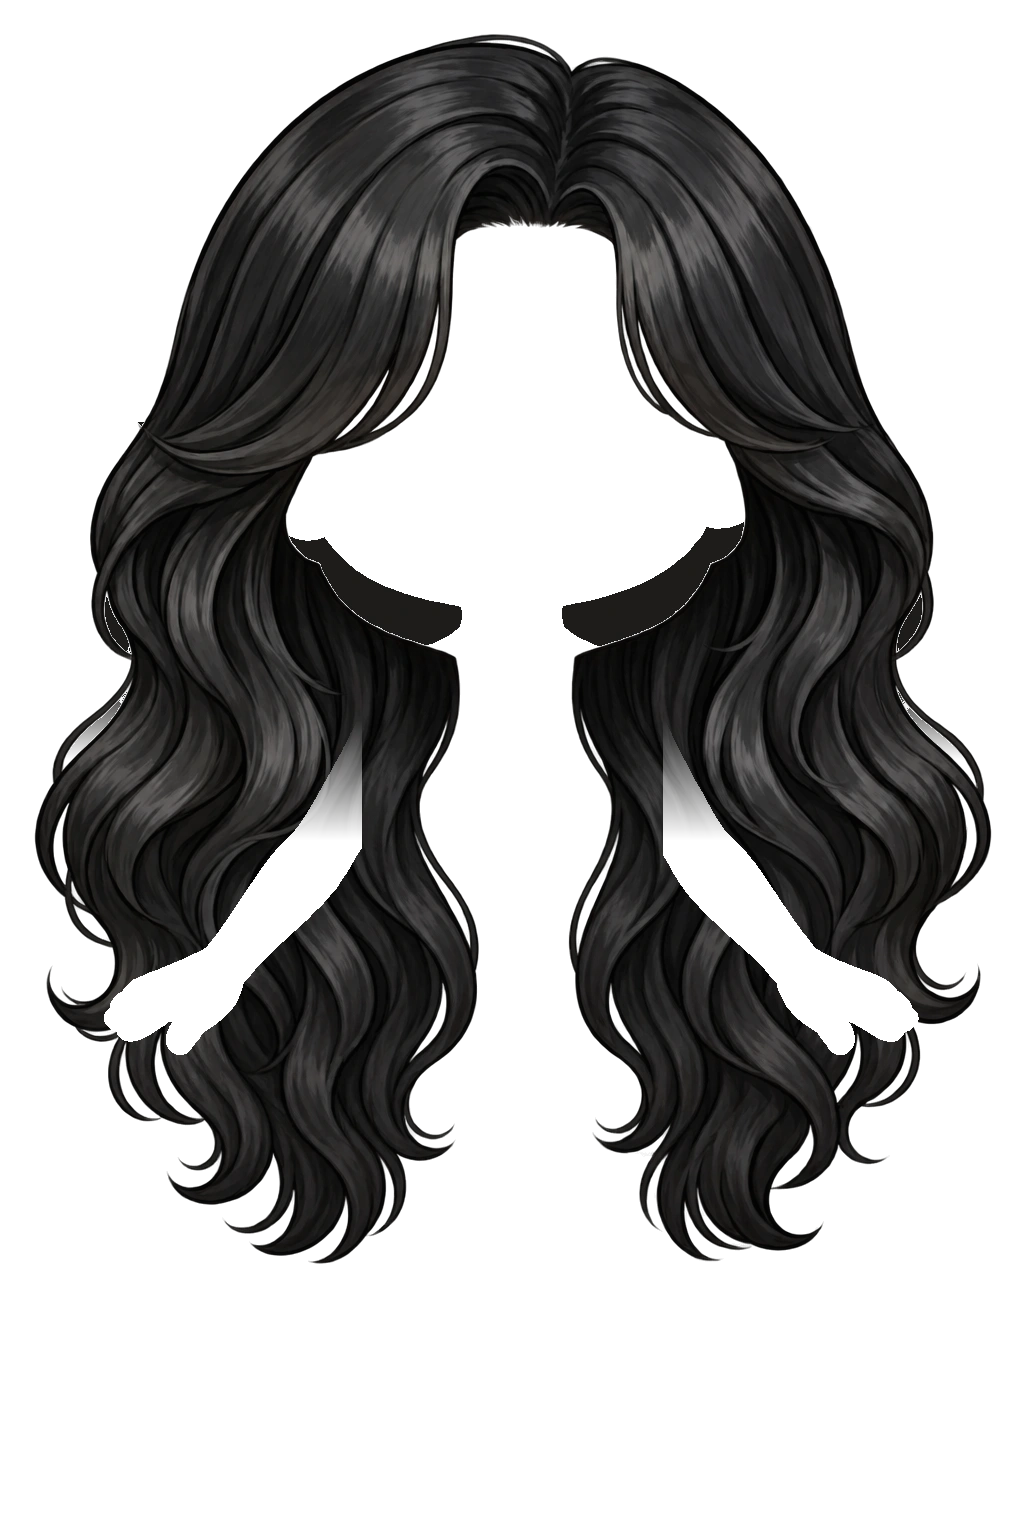
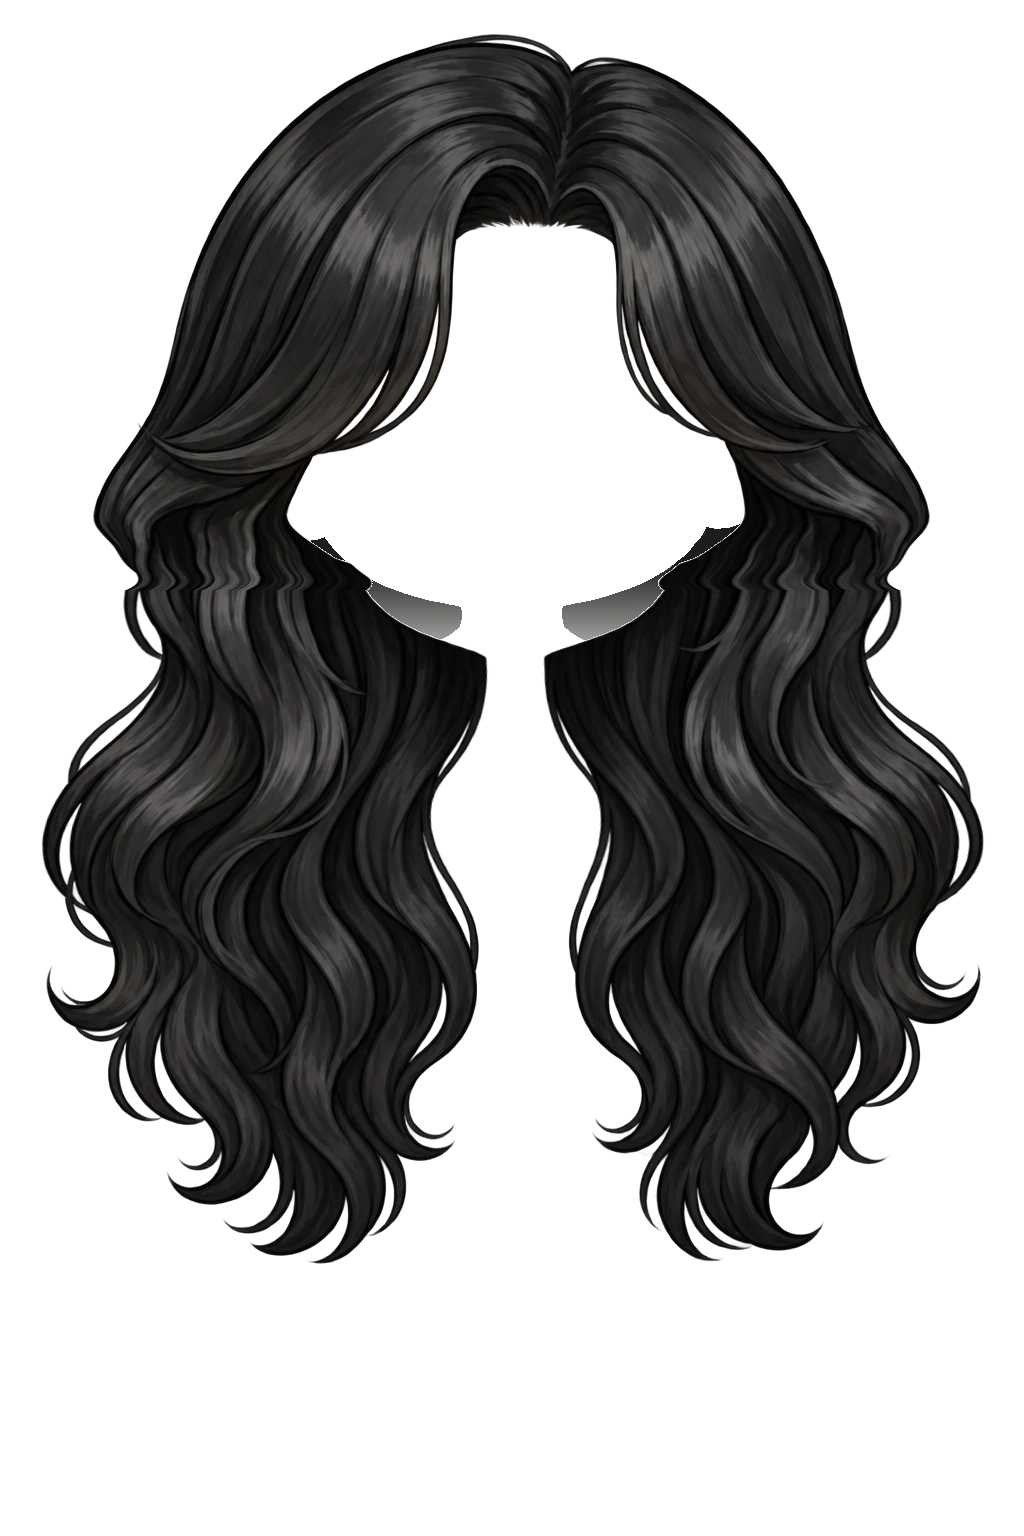
류소 긴 머리 넷: 턱 선에 맞춰 머리를 몸 뒤에 그림(머리 없는 몸 위, 몸의 머리 쪽은 얼굴·귀만), 땋은 왕관 웨이브·긴 웨이브 추가
Claude-Session: https://claude.ai/code/session_01QsJz8svXLJhiXtuEPA1E7w

Changed region(s): [[0.0312, 0.3438, 0.5, 0.6875], [0.5312, 0.3438, 0.9688, 0.6875]]

diff --git a/src/lib/avatars.ts b/src/lib/avatars.ts
@@ -1,4 +1,4 @@
-import { HAIR_BEHIND_Z, HAIR_FRONT_Z } from './layers'
+import { BODY_OVER_HAIR_Z, HAIR_BEHIND_Z, HAIR_FRONT_Z } from './layers'
 import { isRestoring } from './restoreGuard'
 
 export interface Hairstyle {
@@ -8,7 +8,7 @@ export interface Hairstyle {
   file: string
   /** 이 머리일 때 쓰는 몸 파일 이름(dir 안, 확장자·_barefoot 뺀 것). 없으면 body. 기본 머리가 몸에 그려져 있는 아바타가 다른 머리를 쓸 때 */
   body?: string
-  /** true 면 머리를 옷 뒤(몸 바로 위)에 그린다. 옷 위로 내려오는 긴 머리용 */
+  /** true 면 머리를 몸 뒤(몸보다 아래)에 그린다. 몸의 머리 쪽은 이 머리에 맞춰 얼굴·귀만 남긴 body 파일을 쓴다 */
   behind?: boolean
 }
 
@@ -27,10 +27,10 @@ export const AVATARS: Avatar[] = [
     id: 'ryuso', name: { ko: '류소', en: 'Ryuso' }, dir: 'assets/base',
     hairstyles: [
       { id: 'bob', name: { ko: '단발', en: 'Bob' }, file: 'hair_front.webp' },
-      { id: 'wig', name: { ko: '레이어드 긴 머리', en: 'Layered long hair' }, file: 'hair_wig.webp', body: 'body_bald', behind: true },
-      { id: 'tails', name: { ko: '웨이브 양갈래', en: 'Wavy pigtails' }, file: 'hair_tails.webp', body: 'body_bald', behind: true },
-      { id: 'braidwave', name: { ko: '땋은 왕관 웨이브', en: 'Crown braid waves' }, file: 'hair_braid.webp', body: 'body_bald', behind: true },
-      { id: 'longwave', name: { ko: '긴 웨이브', en: 'Long waves' }, file: 'hair_wave.webp', body: 'body_bald', behind: true },
+      { id: 'wig', name: { ko: '레이어드 긴 머리', en: 'Layered long hair' }, file: 'hair_wig.webp', body: 'body_wig', behind: true },
+      { id: 'tails', name: { ko: '웨이브 양갈래', en: 'Wavy pigtails' }, file: 'hair_tails.webp', body: 'body_tails', behind: true },
+      { id: 'braidwave', name: { ko: '땋은 왕관 웨이브', en: 'Crown braid waves' }, file: 'hair_braid.webp', body: 'body_braid', behind: true },
+      { id: 'longwave', name: { ko: '긴 웨이브', en: 'Long waves' }, file: 'hair_wave.webp', body: 'body_wave', behind: true },
     ],
   },
   {
@@ -114,8 +114,10 @@ export function setHairstyle(a: Avatar, styleId: string) {
   listeners.forEach((fn) => fn())
 }
 
-/** 지금 머리가 그려지는 높이: 옷 뒤로 가는 머리면 몸 바로 위, 아니면 앞머리 높이 */
+/** 지금 머리가 그려지는 높이: 몸 뒤로 가는 머리면 몸 아래, 아니면 앞머리 높이 */
 export const hairZ = (a: Avatar = getAvatar()) => (getHairstyle(a).behind ? HAIR_BEHIND_Z : HAIR_FRONT_Z)
+/** 몸이 그려지는 높이: 머리가 몸 뒤로 가면 머리 위(2), 아니면 맨 아래(0) */
+export const bodyZ = (a: Avatar = getAvatar()) => (getHairstyle(a).behind ? BODY_OVER_HAIR_Z : 0)
 
 /** 아바타의 베이스 레이어 파일 경로(assetUrl 을 거치기 전). 머리는 지금 고른 머리 */
 export const baseFiles = (a: Avatar, style: Hairstyle = getHairstyle(a)) => ({

diff --git a/src/lib/avatars.test.ts b/src/lib/avatars.test.ts
@@ -1,6 +1,6 @@
 import { beforeEach, describe, expect, it } from 'vitest'
-import { AVATARS, baseFiles, getAvatar, getHairstyle, hairZ, setAvatar, setHairstyle } from './avatars'
-import { HAIR_BEHIND_Z, HAIR_FRONT_Z, LAYER_Z } from './layers'
+import { AVATARS, baseFiles, bodyZ, getAvatar, getHairstyle, hairZ, setAvatar, setHairstyle } from './avatars'
+import { BODY_OVER_HAIR_Z, HAIR_BEHIND_Z, HAIR_FRONT_Z, LAYER_Z } from './layers'
 
 describe('avatars', () => {
   beforeEach(() => setAvatar(AVATARS[0].id))
@@ -28,15 +28,15 @@ describe('avatars', () => {
     expect(yuha.hairstyles[0].id).toBe('twin')
     expect(baseFiles(yuha, yuha.hairstyles[0]).hairFront).toBe('assets/base/yuha/hair_twin.webp')
   })
-  it('류소의 긴 머리 둘은 옷 뒤(몸 바로 위)에 그리고, 단발은 앞머리 높이', () => {
+  it('류소의 긴 머리 넷은 몸 뒤(몸·옷보다 아래)에 그리고, 단발은 앞머리 높이', () => {
     const ryuso = AVATARS.find((a) => a.id === 'ryuso')!
-    expect(hairZ(ryuso)).toBe(HAIR_FRONT_Z)
+    expect(hairZ(ryuso)).toBe(HAIR_FRONT_Z); expect(bodyZ(ryuso)).toBe(0)
     for (const id of ['wig', 'tails', 'braidwave', 'longwave']) {
       setHairstyle(ryuso, id)
-      expect(hairZ(ryuso)).toBe(HAIR_BEHIND_Z)
-      expect(HAIR_BEHIND_Z).toBeLessThan(Math.min(...Object.values(LAYER_Z)))
-      expect(baseFiles(ryuso).body).toBe('assets/base/body_bald.webp')
-      expect(baseFiles(ryuso).bodyBarefoot).toBe('assets/base/body_bald_barefoot.webp')
+      expect(hairZ(ryuso)).toBe(HAIR_BEHIND_Z); expect(bodyZ(ryuso)).toBe(BODY_OVER_HAIR_Z)
+      expect(HAIR_BEHIND_Z).toBeLessThan(BODY_OVER_HAIR_Z)
+      expect(BODY_OVER_HAIR_Z).toBeLessThan(Math.min(...Object.values(LAYER_Z)))
+      expect(baseFiles(ryuso).body).toMatch(/^assets\/base\/body_(wig|tails|braid|wave)\.webp$/)
     }
     setHairstyle(ryuso, 'bob')
   })

diff --git a/src/components/AvatarHead.tsx b/src/components/AvatarHead.tsx
@@ -1,5 +1,5 @@
 import type { Avatar, Hairstyle } from '../lib/avatars'
-import { baseFiles } from '../lib/avatars'
+import { baseFiles, getHairstyle } from '../lib/avatars'
 import { assetUrl } from '../lib/items'
 
 /** 아바타 얼굴 쪽 정사각형 미리보기 (몸 + 머리 레이어를 겹쳐서 잘라 보여준다) */
@@ -9,8 +9,13 @@ export function AvatarHead({ avatar, style, className = 'h-24 w-24' }: { avatar:
   const box = { width: `${(1024 / 760) * 100}%`, left: `${(-132 / 760) * 100}%`, top: `${(-20 / 760) * 100}%` }
   return (
     <span className={`relative block overflow-hidden rounded-xl bg-white/70 ${className}`} aria-hidden>
-      <img src={assetUrl(f.body)} alt="" className={layer} style={box} draggable={false} />
-      <img src={assetUrl(f.hairFront)} alt="" className={layer} style={box} draggable={false} />
+      {(style ?? getHairstyle(avatar)).behind ? (<>
+        <img src={assetUrl(f.hairFront)} alt="" className={layer} style={box} draggable={false} />
+        <img src={assetUrl(f.body)} alt="" className={layer} style={box} draggable={false} />
+      </>) : (<>
+        <img src={assetUrl(f.body)} alt="" className={layer} style={box} draggable={false} />
+        <img src={assetUrl(f.hairFront)} alt="" className={layer} style={box} draggable={false} />
+      </>)}
     </span>
   )
 }

diff --git a/src/lib/exportPng.ts b/src/lib/exportPng.ts
@@ -1,6 +1,6 @@
 import { drawBackground, type Background } from './backgrounds'
 import { BASE_LAYERS, ITEM_BY_ID, assetUrl } from './items'
-import { hairZ } from './avatars'
+import { bodyZ, hairZ } from './avatars'
 import { CANVAS_H, CANVAS_W } from './layers'
 import { wornItems } from './outfit'
 import { effectiveZ, getTweak, pivotOf } from './tweaks'
@@ -42,9 +42,12 @@ export async function renderFigure(outfit: Outfit, tweaks: Tweaks = {}): Promise
   ])
   const canvas = makeCanvas(CANVAS_W, CANVAS_H)
   const ctx = canvas.getContext('2d')!
+  // 머리가 몸 뒤(hairZ < bodyZ)면 머리를 먼저 그리고 그 위에 몸, 아니면 몸 → 옷 → 앞머리 순서
+  const hairFirst = hairZ() < bodyZ()
+  if (hairFirst) ctx.drawImage(hair, 0, 0, CANVAS_W, CANVAS_H)
   ctx.drawImage(body, 0, 0, CANVAS_W, CANVAS_H)
   // 앞머리(60)는 아우터(50) 위, 액세서리(70) 아래
-  let hairDrawn = false
+  let hairDrawn = hairFirst
   items.forEach((it, idx) => {
     if (!hairDrawn && effectiveZ(it.zIndex, tweaks[it.category]) > hairZ()) {
       ctx.drawImage(hair, 0, 0, CANVAS_W, CANVAS_H)

diff --git a/src/components/Stage.tsx b/src/components/Stage.tsx
@@ -3,7 +3,7 @@ import { useI18n } from '../i18n'
 import type { Background } from '../lib/backgrounds'
 import { useAvatar } from '../lib/useAvatar'
 import { BASE_LAYERS, ITEM_BY_ID, assetUrl } from '../lib/items'
-import { hairZ } from '../lib/avatars'
+import { bodyZ, hairZ } from '../lib/avatars'
 import { type Category } from '../lib/layers'
 import { wornItems } from '../lib/outfit'
 import { effectiveZ } from '../lib/tweaks'
@@ -44,7 +44,7 @@ export function Stage({ outfit, ...rest }: Props) {
     label: it.name[lang],
   }))
   const base: BaseLayer[] = [
-    { src: outfit.shoes ? BASE_LAYERS.bodyBarefoot : BASE_LAYERS.body, z: 0 },
+    { src: outfit.shoes ? BASE_LAYERS.bodyBarefoot : BASE_LAYERS.body, z: bodyZ() },
     { src: BASE_LAYERS.hairFront, z: hairZ() },
   ]
   return <LayerStage base={base} layers={layers} ariaLabel={t('tweakAria')} {...rest} />

diff --git a/src/components/FigureLayers.tsx b/src/components/FigureLayers.tsx
@@ -1,6 +1,6 @@
 import { memo } from 'react'
 import { BASE_LAYERS, ITEM_BY_ID, assetUrl } from '../lib/items'
-import { hairZ } from '../lib/avatars'
+import { bodyZ, hairZ } from '../lib/avatars'
 import { wornItems } from '../lib/outfit'
 import { cssTransform, effectiveZ } from '../lib/tweaks'
 import type { Outfit, Tweaks } from '../lib/types'
@@ -26,7 +26,7 @@ export const FigureLayers = memo(function FigureLayers({
   const body = outfit.shoes ? BASE_LAYERS.bodyBarefoot : BASE_LAYERS.body
   return (
     <>
-      <img src={body} alt="" className="layer" style={{ zIndex: 0 }} draggable={false} />
+      <img src={body} alt="" className="layer" style={{ zIndex: bodyZ() }} draggable={false} />
       {items.map((it) => {
         const t = tweaks[it.category]
         return (

diff --git a/src/lib/layers.ts b/src/lib/layers.ts
@@ -19,8 +19,9 @@ export const LAYER_Z: Record<Category, number> = {
 
 /** 앞머리 레이어(옷 위, 액세서리 아래) */
 export const HAIR_FRONT_Z = 60
-/** 옷 뒤로 가는 머리(몸 바로 위, 신발·옷 아래): 긴 머리가 옷을 가리지 않게 */
-export const HAIR_BEHIND_Z = 5
+/** 몸 뒤로 가는 머리(몸·옷보다 아래): 긴 머리가 옷·손을 가리지 않게. 이때 몸은 머리 위(BODY_OVER_HAIR_Z)에 그린다 */
+export const HAIR_BEHIND_Z = 1
+export const BODY_OVER_HAIR_Z = 2
 
 /** 아바타·옷 PNG 공통 캔버스 크기 (옷은 이 캔버스 전체를 (0,0)에 겹쳐 올린다) */
 export const CANVAS_W = 1024

diff --git a/tools-py/fit_ryuso_hair.py b/tools-py/fit_ryuso_hair.py
@@ -1,0 +1,89 @@
+"""머리만 그려진 투명 PNG(1024×1536)를 머리 없는 류소(assets-src/base/body_bald.png)의 턱 선에 맞춰 hair_<이름>.png 로 저장한다.
+
+  python tools-py/fit_ryuso_hair.py <이름> <머리.png>
+
+1) 떨어진 작은 조각을 지운다
+2) 머리 그림의 얼굴 구멍이 턱 쪽에서 얼굴보다 넓으면, 그 줄(가로 한 줄)의 머리를 가운데로 밀어서 구멍 가장자리가 턱 선에 닿게 한다 (500~590 줄 턱 선까지 맞추고, 640~900 줄에서 서서히 줄어 0)
+3) 목·턱 옆 빈틈은 뒷머리 색으로 채운다 (머리 바깥 선 안쪽, 얼굴·목 둘레만, 660~720 줄에서 서서히 사라짐)
+4) 머리는 몸 뒤에 그려지므로, 몸(머리 쪽)에서 머리카락이 덮던 부분을 지운 body_<이름>.png 도 같이 만든다
+의존성: pip install numpy scipy opencv-python-headless pillow
+"""
+import sys
+
+import cv2
+import numpy as np
+from PIL import Image
+from scipy import ndimage as ndi
+
+name, src = sys.argv[1:3]
+H, W = 1536, 1024
+body = np.array(Image.open('assets-src/base/body_bald.png').convert('RGBA'))
+face = body[..., 3] > 8
+bm = ndi.binary_dilation(face, iterations=3)
+yy = np.arange(H)[:, None] * np.ones((1, W))
+xx = np.arange(W)[None, :] * np.ones((H, 1))
+
+h = np.array(Image.open(src).convert('RGBA'))
+m = h[..., 3] > 8
+lab, k = ndi.label(m)
+sz = ndi.sum(m, lab, range(1, k + 1))
+h[~np.isin(lab, [i + 1 for i, s in enumerate(sz) if s > 1500])] = 0
+m = h[..., 3] > 8
+
+# 2) 턱 선 맞춤: 얼굴 구멍(머리가 없는 가운데)의 반폭과 얼굴 반폭의 차이만큼 가운데로 민다
+free = ~m
+free[700:] = False
+lab2, _ = ndi.label(free)
+hole = lab2 == lab2[420, 512]
+shift = np.zeros(H, np.float32)
+for y in range(500, 591):
+    hx = np.where(hole[y])[0]
+    fx = np.where(face[y])[0]
+    if len(hx) and len(fx):
+        shift[y] = max(0.0, (hx.max() - hx.min()) / 2 - (fx.max() - fx.min()) / 2)
+shift = np.clip(cv2.GaussianBlur(shift.reshape(-1, 1), (1, 0), 9).ravel(), 0, 70)
+rows = np.arange(H)
+up = np.clip((rows - 480) / 110.0, 0, 1)            # 480→590 줄에서 서서히 늘고
+down = np.clip((900 - rows) / 260.0, 0, 1)          # 640→900 줄에서 아주 천천히 줄어 0 (아래 긴 머리는 그대로)
+s = shift.copy()
+s[591:] = s[590]
+s = s * np.minimum(up, down)
+mapx = np.where(xx < 512, xx - s[:, None], xx + s[:, None]).astype(np.float32)
+mapy = (yy).astype(np.float32)
+h = cv2.remap(h, mapx, mapy, cv2.INTER_LINEAR, borderMode=cv2.BORDER_CONSTANT, borderValue=(0, 0, 0, 0))
+m = h[..., 3] > 8
+print(name, 'shift at 560/600/700:', round(float(s[560]), 1), round(float(s[600]), 1), round(float(s[700]), 1))
+
+# 3) 목·턱 옆 빈틈을 뒷머리 색으로
+dark = h[m][:, :3].astype(int)
+col = np.median(dark[dark.sum(axis=1) < 250], axis=0).astype(np.uint8)
+span = np.zeros_like(m)
+for y in range(380, 760):
+    xs = np.where(m[y])[0]
+    if len(xs):
+        span[y, xs.min():xs.max() + 1] = True
+near = cv2.dilate(bm.astype(np.uint8), cv2.getStructuringElement(cv2.MORPH_ELLIPSE, (111, 111))).astype(bool)  # 얼굴·목 둘레만
+gap = span & ~m & ~bm & near
+fade = np.clip((700 - yy) / 140.0, 0, 1)
+near_soft = cv2.GaussianBlur(near.astype(np.float32), (0, 0), 14)
+fade = fade * near_soft
+out = h.copy()
+for c in range(3):
+    out[..., c] = np.where(gap, col[c], out[..., c])
+out[..., 3] = np.where(gap, np.maximum(out[..., 3], (fade * 255).astype(np.uint8)), out[..., 3])
+
+Image.fromarray(out).save(f'assets-src/base/hair_{name}.png')
+
+# 4) 머리가 몸 뒤에 그려지므로, 몸의 머리 쪽은 머리카락이 덮던 부분을 지워서(얼굴·귀·목만 남김) 맨머리가 머리카락 위로 보이지 않게 한다
+hair_a = out[..., 3] > 128
+keep = cv2.dilate((face & ~hair_a).astype(np.uint8), cv2.getStructuringElement(cv2.MORPH_ELLIPSE, (15, 15))).astype(bool) & face
+keep_soft = cv2.GaussianBlur(keep.astype(np.float32), (0, 0), 1.6)
+for suf, srcf in (('', 'body_bald.png'), ('_barefoot', 'body_bald_barefoot.png')):
+    b = np.array(Image.open(f'assets-src/base/{srcf}').convert('RGBA'))
+    b[:640][~keep[:640]] = 0
+    b[:640, :, 3] = (b[:640, :, 3] * np.where(keep[:640], 1.0, 0.0) * np.clip(keep_soft[:640] * 1.4, 0, 1)).astype(np.uint8)
+    lab3, n3 = ndi.label(b[..., 3] > 0)
+    sz3 = ndi.sum(b[..., 3] > 0, lab3, range(1, n3 + 1))
+    b[~np.isin(lab3, [i + 1 for i, s_ in enumerate(sz3) if s_ > 2000])] = 0
+    Image.fromarray(b).save(f'assets-src/base/body_{name}{suf}.png')
+print(name, 'ok')
